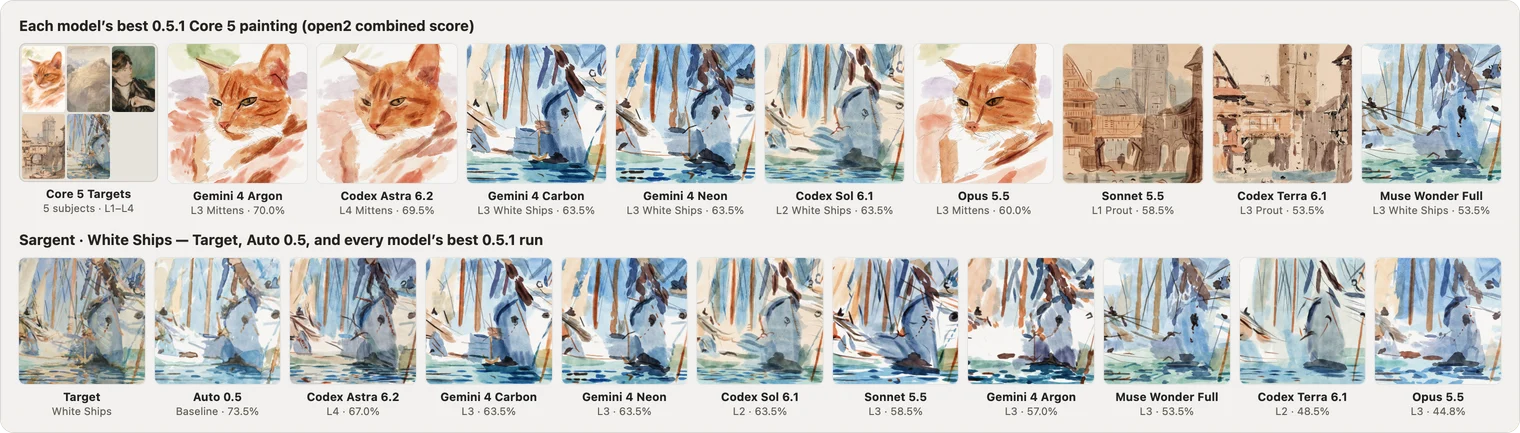
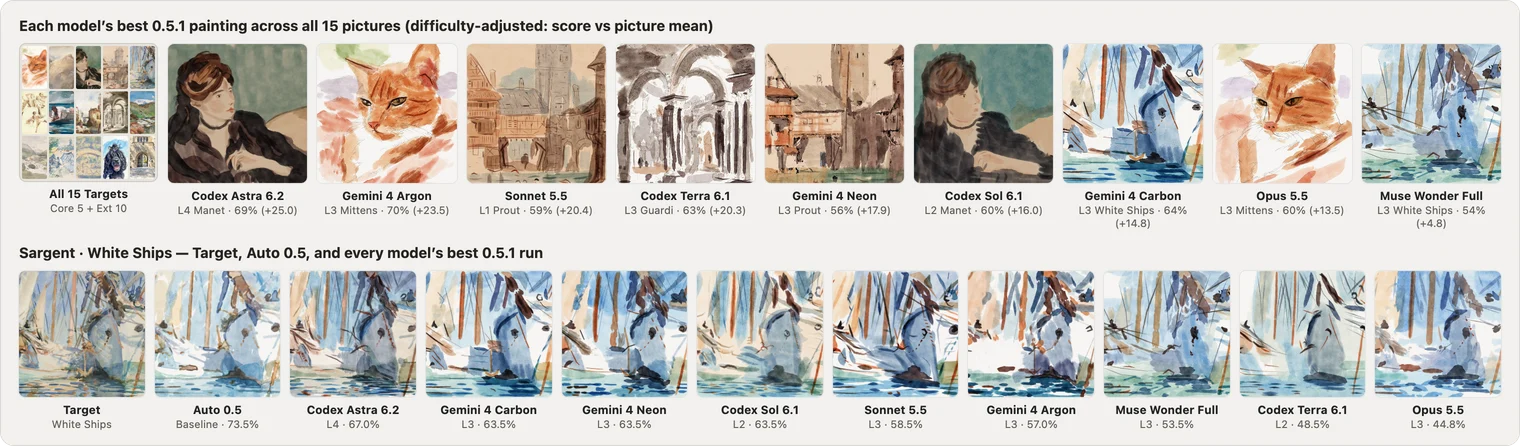
docs: update benchmark-overview.webp to all-15 difficulty-adjusted best paintings

diff --git a/README.md b/README.md
@@ -89,7 +89,7 @@ npm run unpaint -- status work/bench-05                       # progress of the 
 
 <p align="center"><a href="bench/README.md"><img src="docs/img/bench-pareto.svg" width="920" alt="Unpainting 0.5.1 cost versus quality Pareto frontier on Core 5 (model API cost per painting, log scale)"></a></p>
 
-<p align="center"><a href="bench/README.md"><img src="docs/img/benchmark-overview.webp" width="1200" alt="Two rows of 0.5.1 paintings. Top: each model's best Core 5 painting, sorted by open2 score. Bottom: Sargent's White Ships target, Auto 0.5 baseline, and each model's best 0.5.1 run."></a></p>
+<p align="center"><a href="bench/README.md"><img src="docs/img/benchmark-overview.webp" width="1200" alt="Two rows of 0.5.1 paintings. Top: each model's best painting across all 15 pictures (Core 5 + Extended 10), ranked by difficulty-adjusted score versus picture mean. Bottom: Sargent's White Ships target, Auto 0.5 baseline, and each model's best 0.5.1 run."></a></p>
 
 Full tables, findings, and setup: [unpaint-bench](bench/README.md) · [what the model gets](docs/what-the-model-gets.md) · [rules](bench/docs/rules.md) · [scoring](bench/docs/scoring.md) · [changelog](CHANGELOG.md). Older V1–V5 rounds: [leaderboard](bench/results/leaderboard.md), [gallery](bench/results/gallery.md) (tag `v0.3.2`).
 
